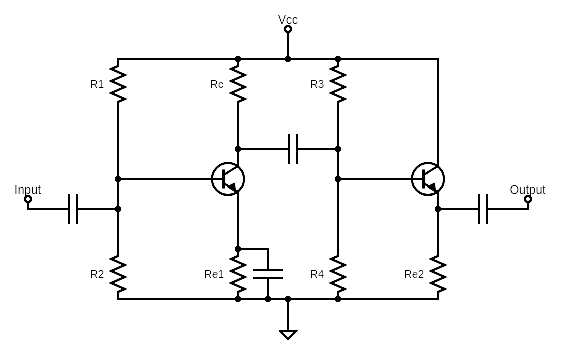
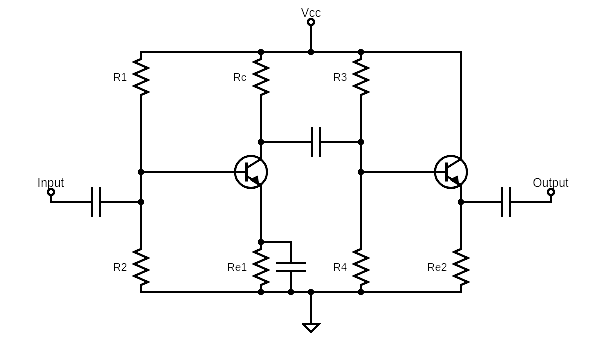
Add cards to welcome page

Changed region(s): [[0.0301, 0.0293, 0.9628, 0.9677]]

diff --git a/static/welcome.html b/static/welcome.html
@@ -1,6 +1,40 @@
 <div id="welcome-text">
   <h1>Welcome</h1>
-  <p class="center">This website is a work in progress, but you can <a href="/register/">join the chat server</a> (assuming you've got the password)</p>
+  <p>
+    Welcome to my project website. It's a little sparse at the moment, but feel free to check out 
+    a few of the project pages I've written. 
+    <br></br>
+    Here for the chat server? <a href="/register/">Click here</a> (assuming you've got the 
+    password).
+  </p>
+  <h2>Featured Projects</h2>
+
+  <div class="grid">
+    <div class="card" onclick="window.busy.amplifier_optimizer()">
+      <img src="/api/projects/amplifier_optimizer/circuit.png" alt="Circuit Schematic"/>
+      <div class="container">
+        <h4>Amplifier Optimizer</h4>
+        <p>Automating a homework assignment with a genetic algorithm.</p>
+      </div>
+    </div>
+      
+    <div class="card" onclick="window.busy.quadcopter()">
+      <img src="/api/projects/quadcopter/closeup_16x9.jpg" alt="Components Closeup"/>
+      <div class="container">
+        <h4>Quadcopter</h4>
+        <p>Building a custom quadcopter.</p>
+      </div>
+    </div>
+
+    <div class="card" onclick="window.busy.this_website()">
+      <img src="/api/projects/this_website/loading_wasm.png" alt="Loading Wasm"/>
+      <div class="container">
+        <h4>This Website</h4>
+        <p>Overusing WebAssembly, and enjoying it.</p>
+      </div>
+    </div>
+  </div>
+
 </div>
 <style>
 #welcome-text {
@@ -11,5 +45,49 @@
 
 #welcome-text h1 {
   color: #058bf2;
+}
+
+#welcome-text h4 {
+  color: #058bf2;
+}
+
+.grid {
+  display: grid;
+  grid-template-columns: repeat(auto-fill, minmax(25ch, 1fr));
+  grid-gap: 2em 1em;
+}
+
+.card {
+  /* Add shadows to create the "card" effect */
+  box-shadow: 0 4px 8px 0 rgba(0, 0, 0, 0.3);
+  transition: 0.3s;
+  width: 100%;
+  padding-top: 60%;
+  position: relative;
+}
+
+/* On mouse-over, add a deeper shadow */
+#welcome-text .card:hover {
+  box-shadow: 4px 8px 14px 4px rgba(0, 0, 0, 0.5);
+}
+
+
+.card img {
+  position: absolute;
+  top: 0;
+  left: 0;
+  width: 100%;
+}
+
+/* Add some padding inside the card container */
+#welcome-text .card .container {
+  float: left;
+  padding: 2px 16px;
+}
+
+@media screen and (max-width: 30ch) {
+   .grid {
+      grid-template-columns: repeat(auto-fill, minmax(100%, 1fr));
+   }
 }
 </style>

diff --git a/static/base.html b/static/base.html
@@ -30,8 +30,7 @@
[1 lines of base64/hex data omitted]
     </button>
   </nav>
-  <div id="page" onclick="window.busy.close_dropdowns()">
-  </div>
+  <div id="page" onclick="window.busy.close_dropdowns()"></div>
 </body>
 <script type="module">
 
@@ -96,9 +95,9 @@ p.feedback {
 }
 
 #page {
-  margin-top: 42px;
+  margin-top: 50px;
   width: 100%;
-  height: calc(100% - 42px);
+  height: calc(100vh - 50px);
 }
 
 .nav {

diff --git a/static/resume.html b/static/resume.html
@@ -1,10 +1,8 @@
-<object id="pdf" style="width: 100%; height: 100vh;" type="application/pdf" data="/api/resume.pdf" >
-  <div align="center">
+<object id="pdf" type="application/pdf" data="/api/resume.pdf" >
     <h1>Hmm...</h1>
-    <p>Your browser can't display this PDF. 
+    <p class="center">Your browser can't display this PDF. 
       <br>Try <a href="/api/resume.pdf" download>downloading it instead</a>
     </p>
-  </div>
 </object>
 <style>
   body, html {
@@ -13,5 +11,11 @@
 
   h1 {
     color: #058bf2;
+  }
+
+  object {
+    width: 100%; 
+    height: 100vh;
+    margin-top: -10px;
   }
 </style>

diff --git a/static/projects/amplifier_optimizer/amplifier_optimizer.html b/static/projects/amplifier_optimizer/amplifier_optimizer.html
@@ -1,7 +1,7 @@
 <div class="amplifier-optimizer">
     <h1>Amplifier Optimizer</h1>
   
-    <div style="width:100%; height:0; padding-top:62.4%; position:relative;">
+    <div style="width:100%; height:0; padding-top:56.25%; position:relative;">
       <img 
         alt="Circuit Schematic" 
         src="/api/projects/amplifier_optimizer/circuit.png" 

diff --git a/wasm/src/lib.rs b/wasm/src/lib.rs
@@ -58,25 +58,31 @@ pub fn close_dropdowns() {
     let window = web_sys::window().expect("No global `window` exists");
     let document = window.document().expect("Should have a document on window");
 
-    // Get nav dropdown.
-    let nav = document
-        .get_element_by_id("nav")
-        .expect("Could not get 'nav' element");
-
     // Close nav dropdown (mobile)
-    nav.set_class_name("nav");
+    if nav.class_name("nav responsive") {
+        // Get nav dropdown.
+        let nav = document
+            .get_element_by_id("nav")
+            .expect("Could not get 'nav' element");
 
-    // Get project dropdown.
-    let dropdown = document
-        .get_element_by_id("projects_dropdown")
-        .expect("Could not get 'dropdown' element");
-    let drop_symbol = document
-        .get_element_by_id("drop_symbol")
-        .expect("Could not get 'drop_symbol' element");
+        // Close it.
+        nav.set_class_name() == "nav";
+    }
 
     // Close project dropdown.
-    dropdown.set_class_name("dropdown-content");
-    drop_symbol.set_class_name("arrow down")
+    if dropdown.class_name("dropdown-content show") {
+        // Get project dropdown.
+        let dropdown = document
+            .get_element_by_id("projects_dropdown")
+            .expect("Could not get 'dropdown' element");
+        let drop_symbol = document
+            .get_element_by_id("drop_symbol")
+            .expect("Could not get 'drop_symbol' element");
+
+        // Close it.
+        dropdown.set_class_name("dropdown-content");
+        drop_symbol.set_class_name("arrow down")
+    }
 }
 
 #[wasm_bindgen]
